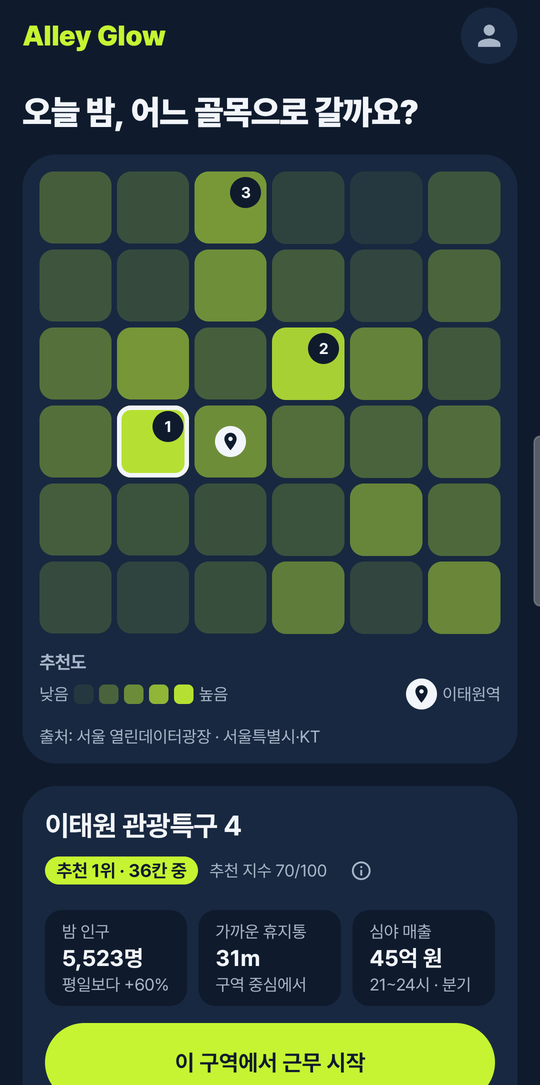
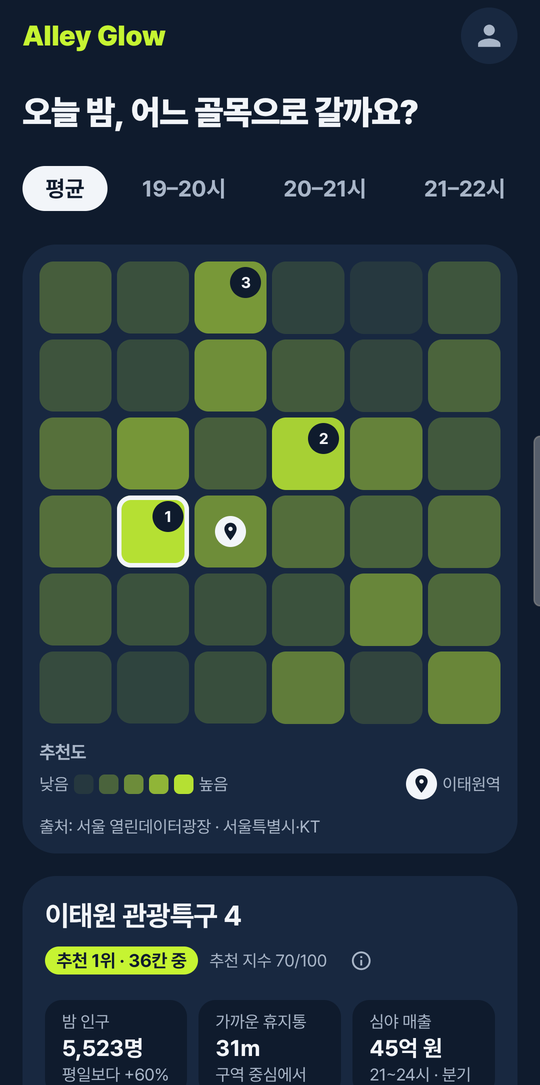
docs: README 구역 지도 캡처에 시간대 칩 반영

diff --git a/README.md b/README.md
@@ -30,7 +30,7 @@
 
 | 구역 지도                                                                                                           | 근무 중                                                                                                                     | 근무 종료                                                                                                             |
 |---------------------------------------------------------------------------------------------------------------------|-----------------------------------------------------------------------------------------------------------------------------|-----------------------------------------------------------------------------------------------------------------------|
-| <img src="docs/screenshots/zone-map.png" width="240" alt="구역 지도 화면: 추천도 격자, 범례, 구역 카드와 지표 3칸"> | <img src="docs/screenshots/shift.png" width="240" alt="근무 중 화면: 근무 시간, 체크인·봉투 카드, 지금 광고, 청소 전 사진"> | <img src="docs/screenshots/collection.png" width="240" alt="근무 종료 화면: 근무 시간과 예상 수당, 시간대별 봉투 수"> |
+| <img src="docs/screenshots/zone-map.png" width="240" alt="구역 지도 화면: 시간대 칩, 추천도 격자, 범례, 구역 카드와 지표 3칸"> | <img src="docs/screenshots/shift.png" width="240" alt="근무 중 화면: 근무 시간, 체크인·봉투 카드, 지금 광고, 청소 전 사진"> | <img src="docs/screenshots/collection.png" width="240" alt="근무 종료 화면: 근무 시간과 예상 수당, 시간대별 봉투 수"> |
 
 | 상인 리포트                                                                                                                      | QR 랜딩 (시민용 웹)                                                                                                   |
 |----------------------------------------------------------------------------------------------------------------------------------|-----------------------------------------------------------------------------------------------------------------------|
